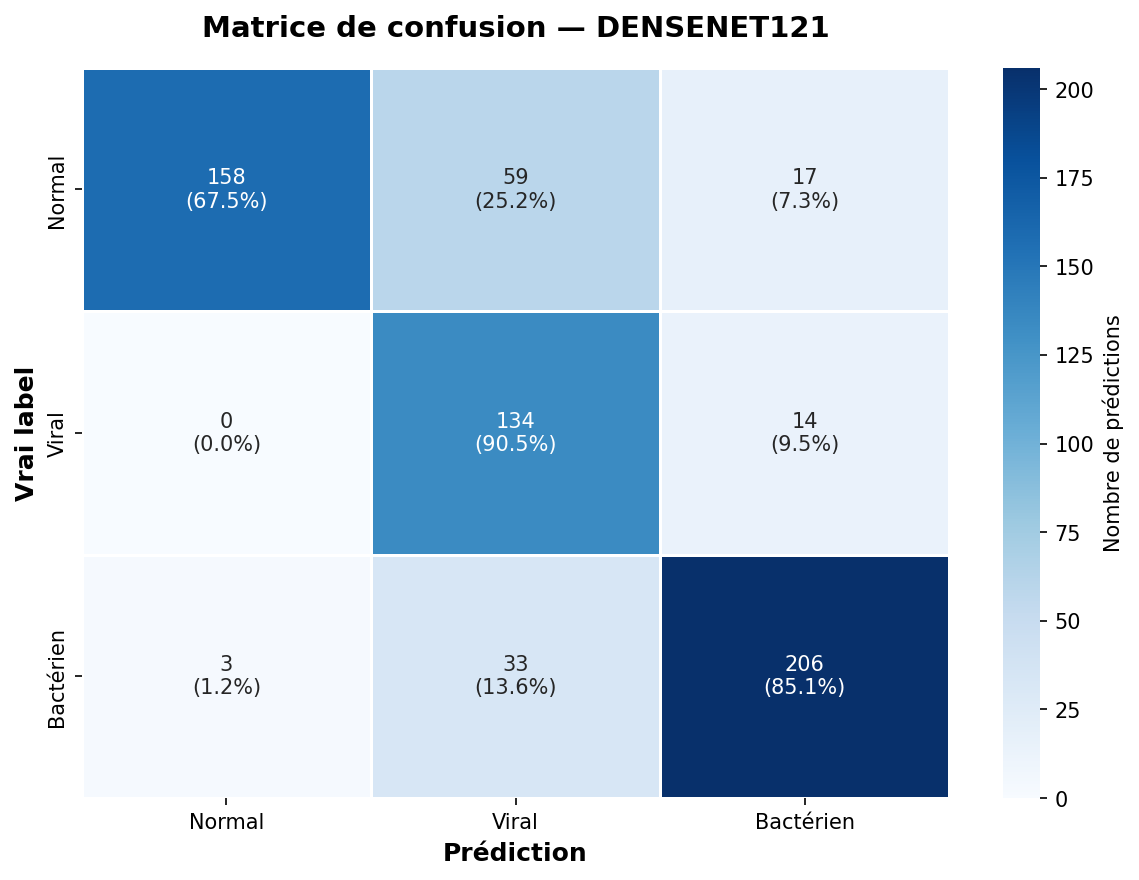
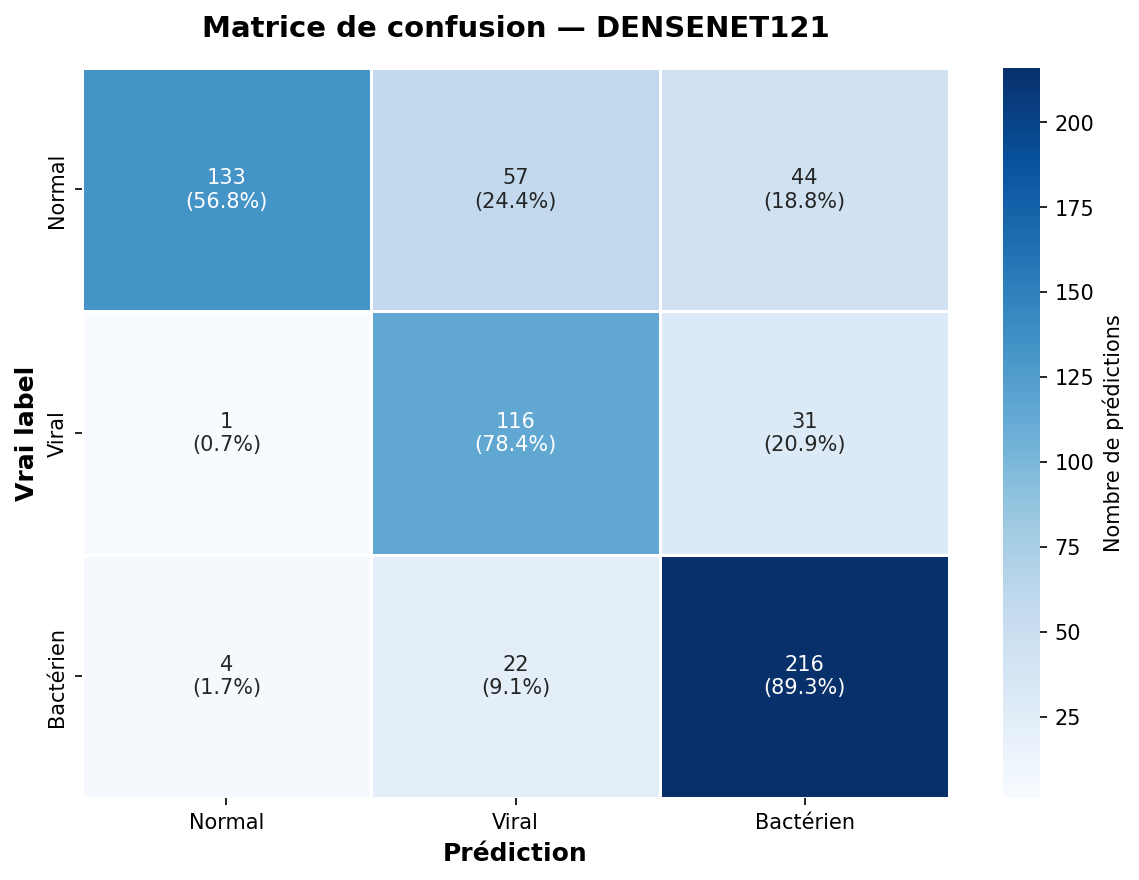
fix(main): changement mixup_alpha 0.5

diff --git a/main.py b/main.py
@@ -31,7 +31,7 @@ EPOCHS = 50
 PATIENCE = 10 
 LABEL_SMOOTHING = 0.05 
 GRAD_ACCUM_STEPS = 2
-MIXUP_ALPHA = 0.0 
+MIXUP_ALPHA = 0.5 
 MODELS_DIR = "models"
 TRAIN_DIR = "data/raw/train"
 VAL_DIR = "data/raw/test"
